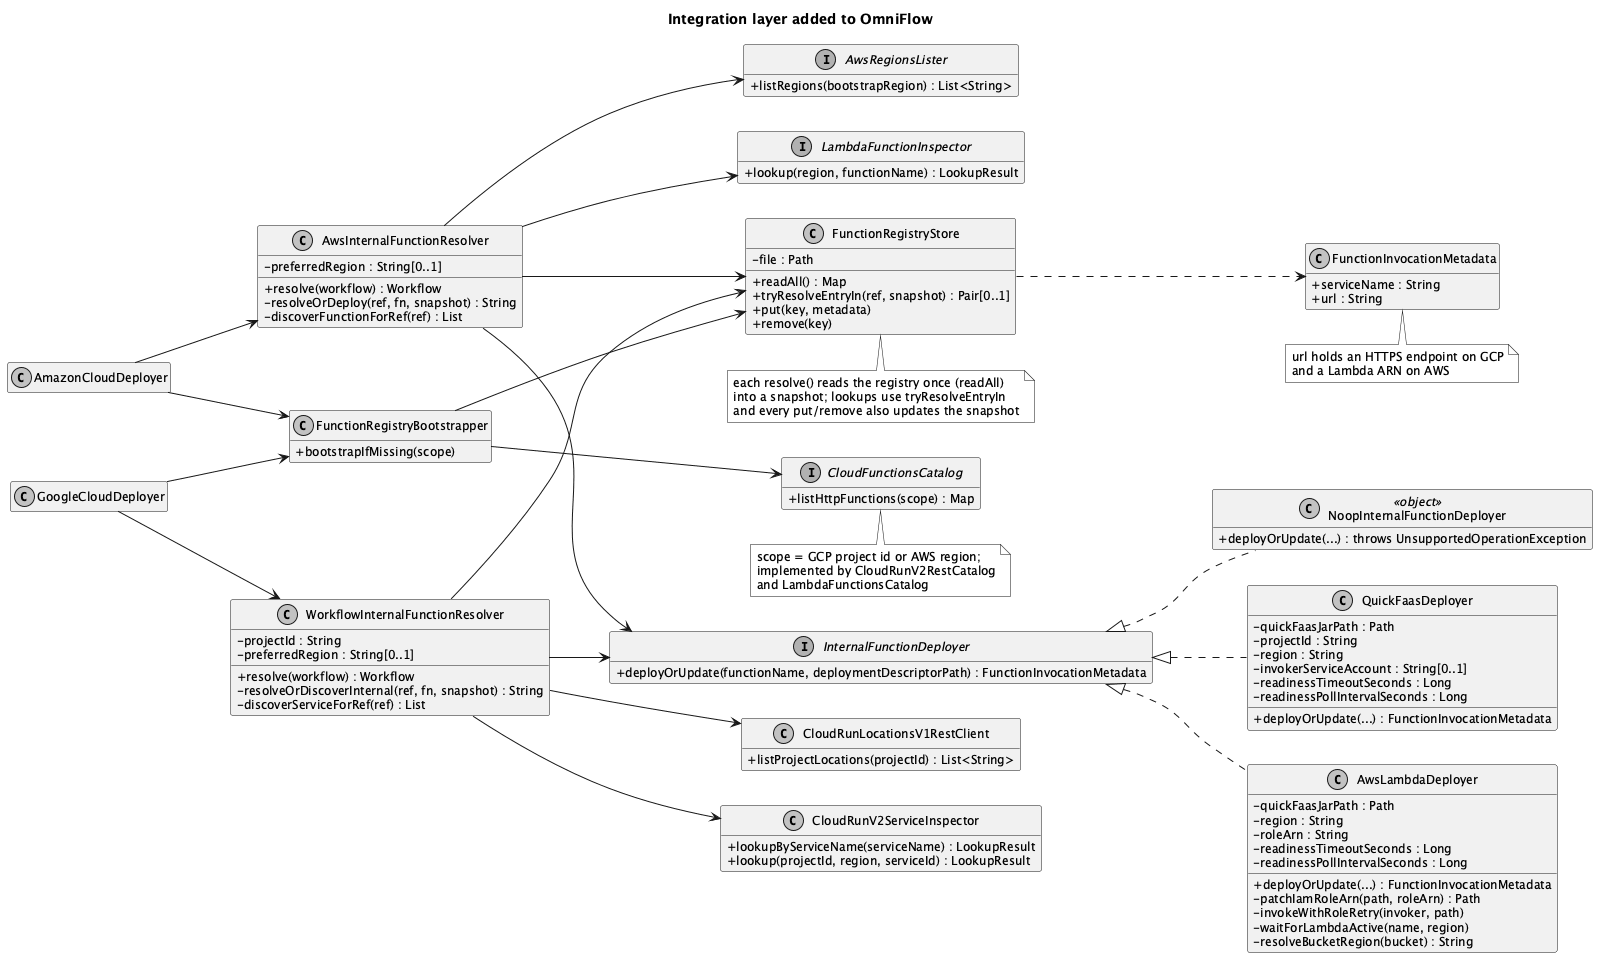
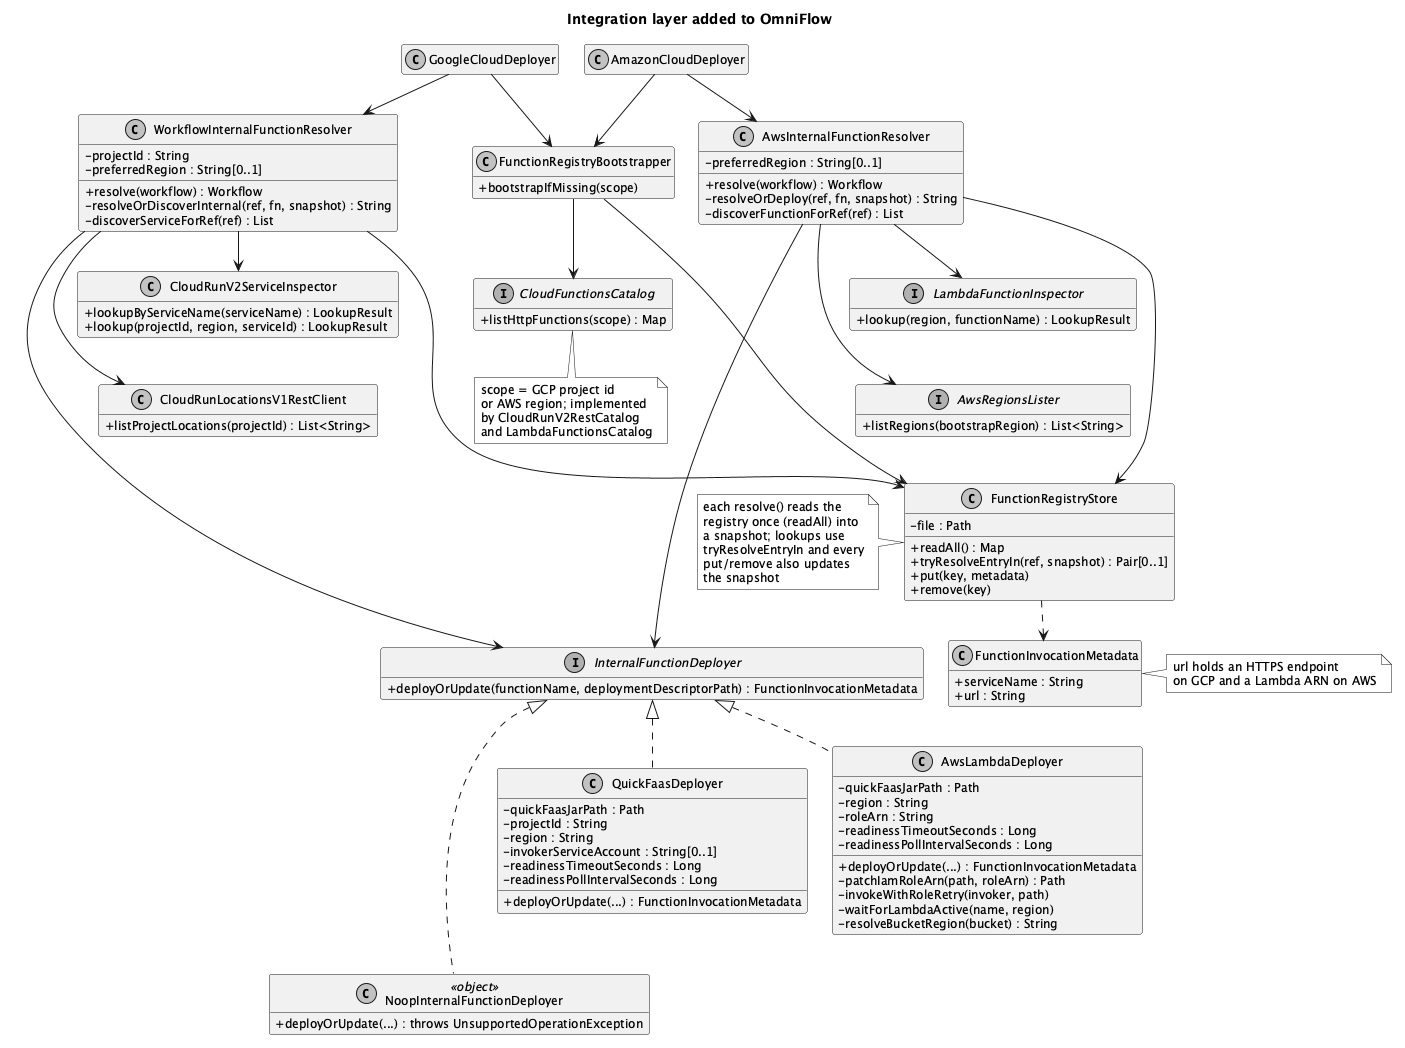
Lay out Appendix A's diagrams in sequence and make them easier to read
Place the diagrams one after another instead of as floats, each at the
largest size the page allows, and stack the GCP and AWS panels of the
ladder figures. Redraw the class model top-down, with GCP on the left and
AWS on the right, and split the AWS deployment sequence into an overview
(Level 3 collapsed into a ref) and a panel expanding Level 3.

diff --git a/dissertation/Chapters/appendix-cascade.tex b/dissertation/Chapters/appendix-cascade.tex
@@ -11,81 +11,91 @@ model of the integration layer (Figure~\ref{fig:omniflow-integration-classes}), 
 parts in Section~\ref{sec:function-registry}; the
 AWS deployment sequence (Figure~\ref{fig:aws-deploy-sequence}), whose Level~3 branch is
 Figure~\ref{fig:aws-deploy-level3}, and one diagram per level of the resolution ladder
-(Section~\ref{sec:resolution-cascade}), with GCP and AWS side by side.
+(Section~\ref{sec:resolution-cascade}), with the GCP path as panel (a) and the AWS path as panel (b).
 
-\begin{figure}[htbp]
+% The diagrams are placed in sequence rather than as floats, each at the largest size the page
+% allows; the two panels of Figures A.2 and A.3 are too tall to share a page, so (b) continues the figure.
+\newcommand{\appdiagram}[2][0.85]{%
+  \includegraphics[width=\textwidth,height=#1\textheight,keepaspectratio]{images/implementation/#2.png}}
+
+\noindent\begin{minipage}{\textwidth}
   \centering
-  \includegraphics[width=\textwidth]{images/implementation/omniflow-integration-classes.png}
-  \caption{Class model of the integration layer added to OmniFlow.}
+  \appdiagram[0.75]{omniflow-integration-classes}
+  \captionof{figure}{Class model of the integration layer added to OmniFlow.}
   \label{fig:omniflow-integration-classes}
-\end{figure}
+\end{minipage}
 
-\begin{figure}[htbp]
+\bigskip
+\noindent\begin{minipage}{\textwidth}
   \centering
-  \includegraphics[width=\textwidth]{images/implementation/aws-deploy-sequence.png}
-  \caption{Deployment sequence on AWS, from the registry bootstrap to
+  \appdiagram[0.8]{aws-deploy-sequence}
+  \par (a) Overview
+  \captionof{figure}{Deployment sequence on AWS, from the registry bootstrap to
   \texttt{Create\allowbreak State\allowbreak Machine}, with one branch per level of the resolution
-  ladder, a fourth for the calls that fail fast, and the Level~3 path expanded.}
+  ladder and a fourth for the calls that fail fast (a); the Level~3 branch is expanded in (b), on
+  the next page.}
   \label{fig:aws-deploy-sequence}
-\end{figure}
+\end{minipage}
 
-\begin{figure}[htb]
+\bigskip
+\noindent\begin{minipage}{\textwidth}
   \centering
-  \begin{minipage}[t]{0.48\textwidth}
-    \centering
-    \includegraphics[width=\textwidth]{images/implementation/resolution-cascade-level1-gcp.png}
-    \par (a) GCP
-  \end{minipage}
-  \hfill
-  \begin{minipage}[t]{0.48\textwidth}
-    \centering
-    \includegraphics[width=\textwidth]{images/implementation/resolution-cascade-level1-aws.png}
-    \par (b) AWS
-  \end{minipage}
-  \caption{Level~1 (Registry): a registry hit is validated against the live Cloud Run service on
-  GCP (a) and against \texttt{GetFunction} on AWS (b). On a \texttt{NotFound} result, both paths
-  attempt rediscovery (across every region, or in the one region a \texttt{"region/functionRef"}
-  reference names) before a stale entry is removed.}
+  \appdiagram[0.8]{aws-deploy-sequence-level3-full}
+  \par (b) Level~3 expanded
+  \captionsetup{type=figure}\ContinuedFloat
+  \caption[]{Deployment sequence on AWS, continued: the Level~3 branch, from
+  \texttt{deploy\allowbreak OrUpdate} to the \texttt{Function\allowbreak Invocation\allowbreak
+  Metadata} it returns.}
+\end{minipage}
+
+\bigskip
+\noindent\begin{minipage}{\textwidth}
+  \centering
+  \appdiagram[0.84]{resolution-cascade-level1-gcp}
+  \par (a) GCP\par
+  \captionof{figure}{Level~1 (Registry): a registry hit is validated against the live Cloud Run
+  service on GCP (a) and against \texttt{GetFunction} on AWS (b, on the next page). On a
+  \texttt{NotFound} result, both paths attempt rediscovery (across every region, or in the one
+  region a \texttt{"region/functionRef"} reference names) before a stale entry is removed.}
   \label{fig:resolution-cascade-level1}
-\end{figure}
+\end{minipage}
 
-\begin{figure}[htb]
+\bigskip
+\noindent\begin{minipage}{\textwidth}
   \centering
-  \begin{minipage}[t]{0.48\textwidth}
-    \centering
-    \includegraphics[width=\textwidth]{images/implementation/resolution-cascade-level2-gcp.png}
-    \par (a) GCP
-  \end{minipage}
-  \hfill
-  \begin{minipage}[t]{0.48\textwidth}
-    \centering
-    \includegraphics[width=\textwidth]{images/implementation/resolution-cascade-level2-aws.png}
-    \par (b) AWS
-  \end{minipage}
-  \caption{Level~2 (Provider discovery): the target Cloud Run service is searched for across the
-  project's regions on GCP (a) and the target Lambda across every region enabled for the account on
-  AWS (b). On both providers, the fully-qualified \texttt{"region/functionRef"} form is resolved
-  with a single lookup in that region.}
+  \appdiagram[0.84]{resolution-cascade-level1-aws}
+  \par (b) AWS
+  \captionsetup{type=figure}\ContinuedFloat
+  \caption[]{Level~1 (Registry), continued: the AWS path.}
+\end{minipage}
+
+\bigskip
+\noindent\begin{minipage}{\textwidth}
+  \centering
+  \appdiagram[0.4]{resolution-cascade-level2-gcp}
+  \par (a) GCP\par
+  \medskip
+  \appdiagram[0.4]{resolution-cascade-level2-aws}
+  \par (b) AWS
+  \captionof{figure}{Level~2 (Provider discovery): the target Cloud Run service is searched for
+  across the project's regions on GCP (a) and the target Lambda across every region enabled for the
+  account on AWS (b). On both providers, the fully-qualified \texttt{"region/functionRef"} form is
+  resolved with a single lookup in that region.}
   \label{fig:resolution-cascade-level2}
-\end{figure}
+\end{minipage}
 
-\begin{figure}[htb]
+\bigskip
+\noindent\begin{minipage}{\textwidth}
   \centering
-  \begin{minipage}[t]{0.48\textwidth}
-    \centering
-    \includegraphics[width=\textwidth]{images/implementation/resolution-cascade-level3-gcp.png}
-    \par (a) GCP
-  \end{minipage}
-  \hfill
-  \begin{minipage}[t]{0.48\textwidth}
-    \centering
-    \includegraphics[width=\textwidth]{images/implementation/resolution-cascade-level3-aws.png}
-    \par (b) AWS
-  \end{minipage}
-  \caption{Level~3 (QuickFaaS deployment): \texttt{QuickFaasDeployer} invokes QuickFaaS, polls
-  the Cloud Functions~v2 API until the function is active and grants the workflow's service account
-  \texttt{roles/\allowbreak run.invoker} on its Cloud Run service on GCP (a). \texttt{AwsLambdaDeployer}
-  invokes QuickFaaS and polls \texttt{GetFunction} until the Lambda is active on AWS (b).
-  The AWS branch is expanded in Figure~\ref{fig:aws-deploy-sequence}.}
+  \appdiagram[0.4]{resolution-cascade-level3-gcp}
+  \par (a) GCP\par
+  \medskip
+  \appdiagram[0.4]{resolution-cascade-level3-aws}
+  \par (b) AWS
+  \captionof{figure}{Level~3 (QuickFaaS deployment): \texttt{QuickFaasDeployer} invokes QuickFaaS,
+  polls the Cloud Functions~v2 API until the function is active and grants the workflow's service
+  account \texttt{roles/\allowbreak run.invoker} on its Cloud Run service on GCP (a).
+  \texttt{AwsLambdaDeployer} invokes QuickFaaS and polls \texttt{GetFunction} until the Lambda is
+  active on AWS (b). The AWS branch is expanded in Figure~\ref{fig:aws-deploy-sequence}.}
   \label{fig:resolution-cascade-level3}
-\end{figure}
+\end{minipage}

diff --git a/dissertation/CHANGELOG.md b/dissertation/CHANGELOG.md
@@ -1,6 +1,6 @@
 # Alterações aos capítulos da dissertação
 
-Só alterações ainda não enviadas (push). Base: `fbae2e5` (último commit em
+Só alterações ainda não enviadas (push). Base: `b20507a` (último commit em
 `origin/claude/progress-report-compliance-e4damf`). Depois de um push, o registo recomeça vazio.
 
 (`changelog.txt`, nesta pasta, é o histórico do template `iselthesis` e não tem nada a ver com
@@ -8,11 +8,20 @@ este ficheiro.)
 
 ## 2026-09-29
 
-### Pontos pendentes da revisão de 28/09 (`REVISAO-2026-09-28.md`)
+### Apêndice A (`appendix-cascade.tex`): diagramas seguidos e maiores
 
-- **Cap. 4 (`chapter5.tex`), Invocation na AWS:** meia frase a explicar `InputPath` e `Next` da
-  Listagem 4.2 (ponto 3.8).
-- **Siglas (`acronyms.tex`):** retiradas `DFS` e `ML`, que o texto não usa.
-- **Cap. 3 (`chapter3.tex`), Function Registry:** "bare reference" passa a ser definida na primeira
-  ocorrência (o `functionRef` sem região); nova entrada "Bare reference" no glossário
-  (`glossary.tex`).
+- Os diagramas deixam de ser floats (`figure`) e passam a vir seguidos (`minipage` com
+  `\captionof`), cada um no maior tamanho que a página permite; acabam as páginas com um só
+  diagrama centrado.
+- Níveis 2 e 3: os painéis (a) GCP e (b) AWS passam de lado a lado para um por cima do outro, à
+  largura do texto.
+- Nível 1: os dois painéis são altos demais para a mesma página; (a) GCP fica na Figura A.3 e
+  (b) AWS continua-a na página seguinte (`\ContinuedFloat`, sem nova entrada na lista de figuras).
+- A introdução do apêndice diz agora "panel (a)"/"panel (b)" em vez de "side by side".
+- **Figura A.1 (modelo de classes):** o diagrama passa a ler-se de cima para baixo (pontos de
+  entrada → resolvers → lookups e registry → deployers), com o GCP à esquerda e a AWS à direita;
+  é mais estreito, por isso sai maior na página (`diagrams/omniflow-integration-classes.puml`).
+- **Figura A.2 (sequência de deployment na AWS):** dividida em dois painéis. (a) é a visão geral,
+  com 7 participantes em vez de 10 e o Nível 3 recolhido num bloco `ref`; (b), na página seguinte,
+  expande o Nível 3 (nova fonte `diagrams/aws-deploy-sequence-level3-full.puml`). A nota do Nível 1
+  aponta para a Figura A.3; a legenda foi reescrita em conformidade.
